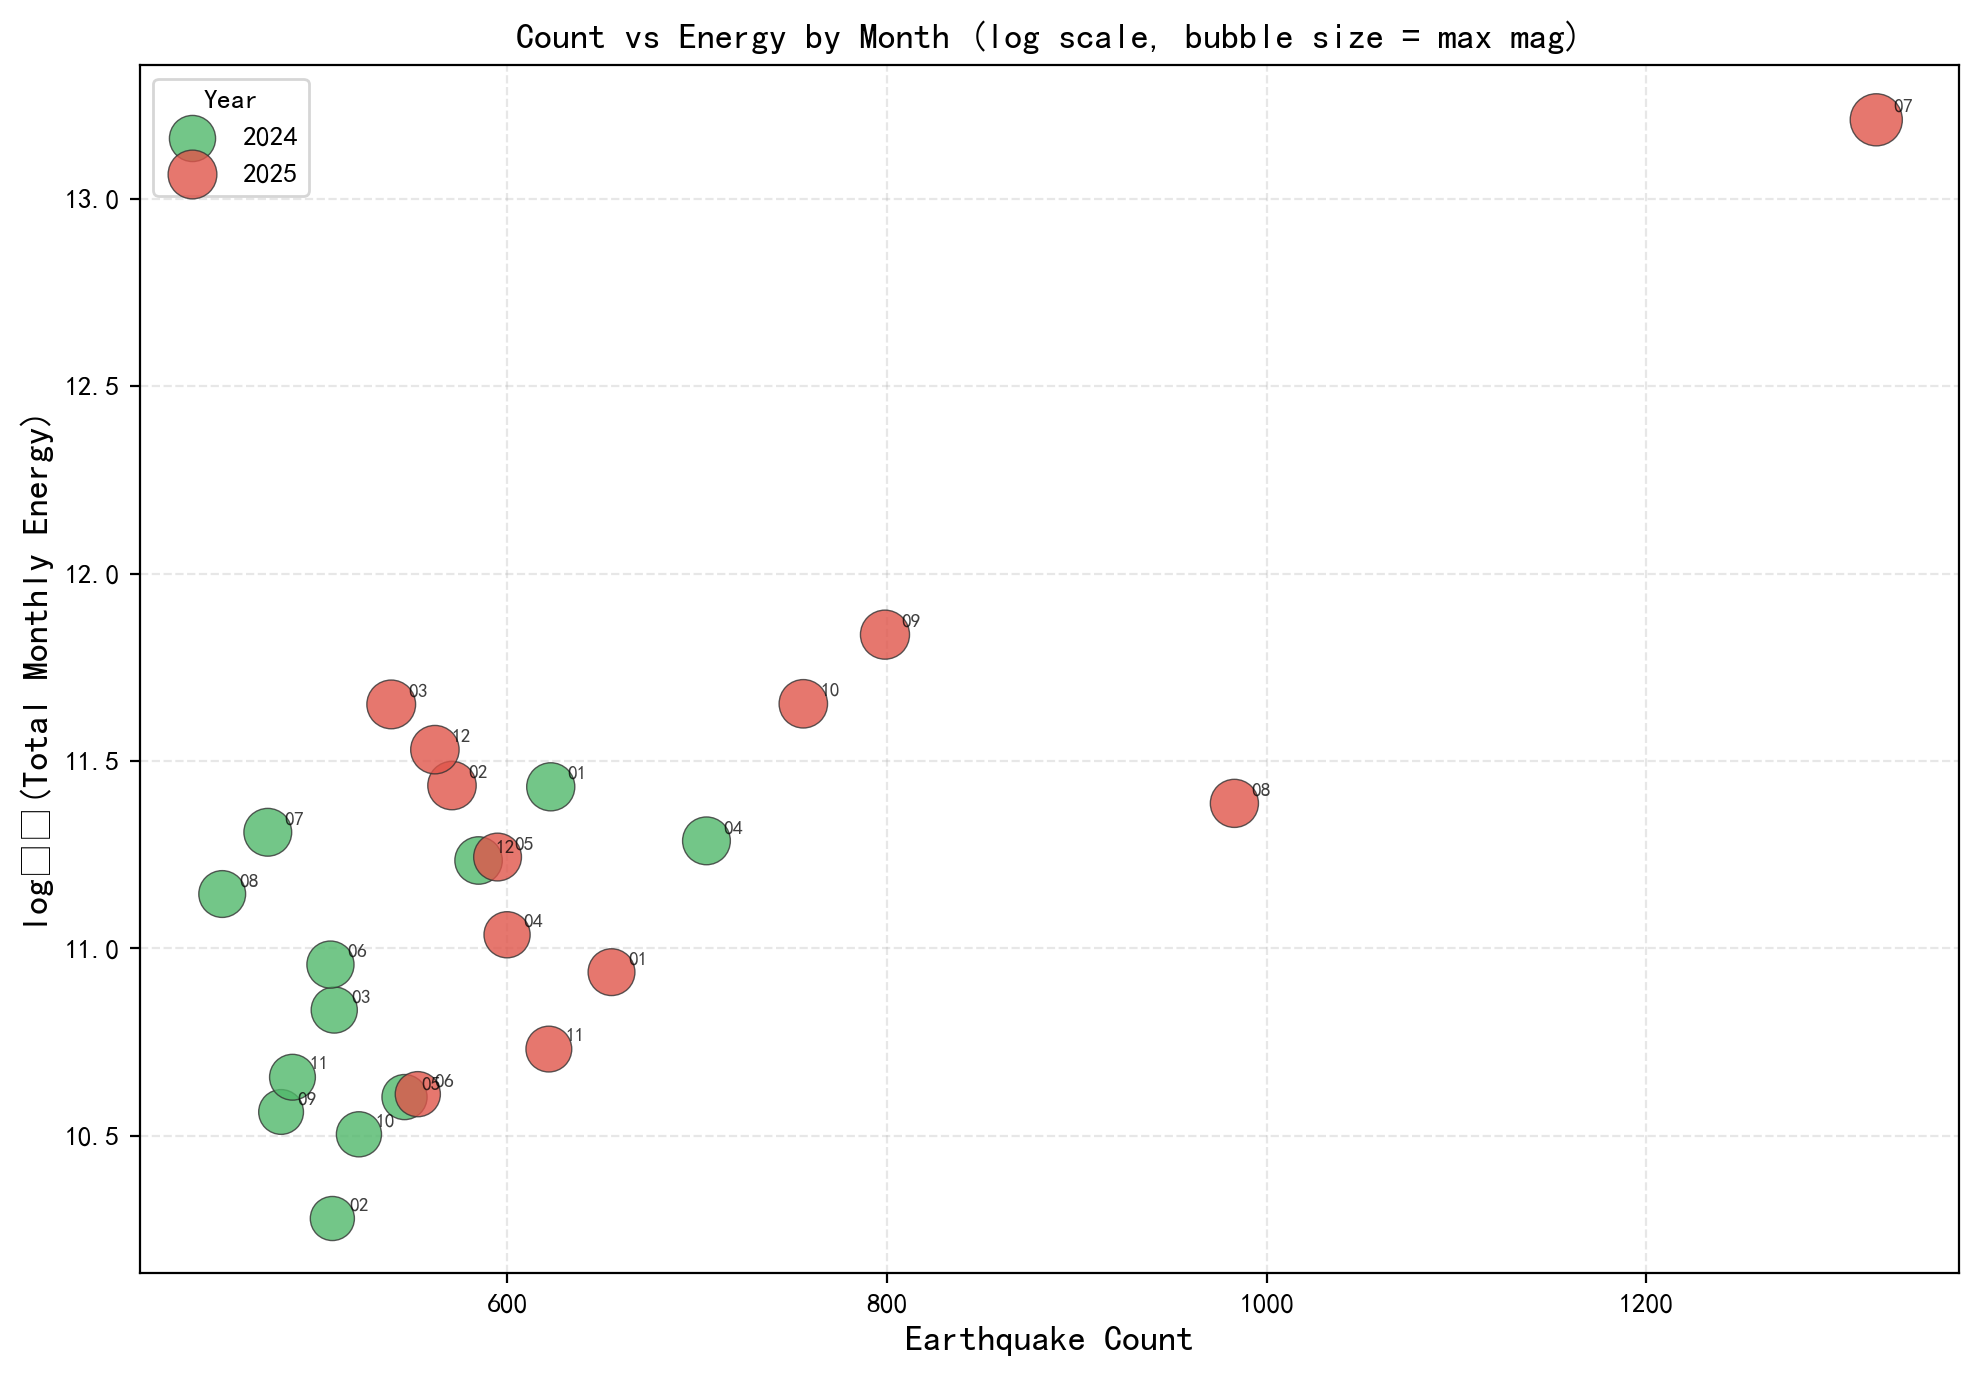
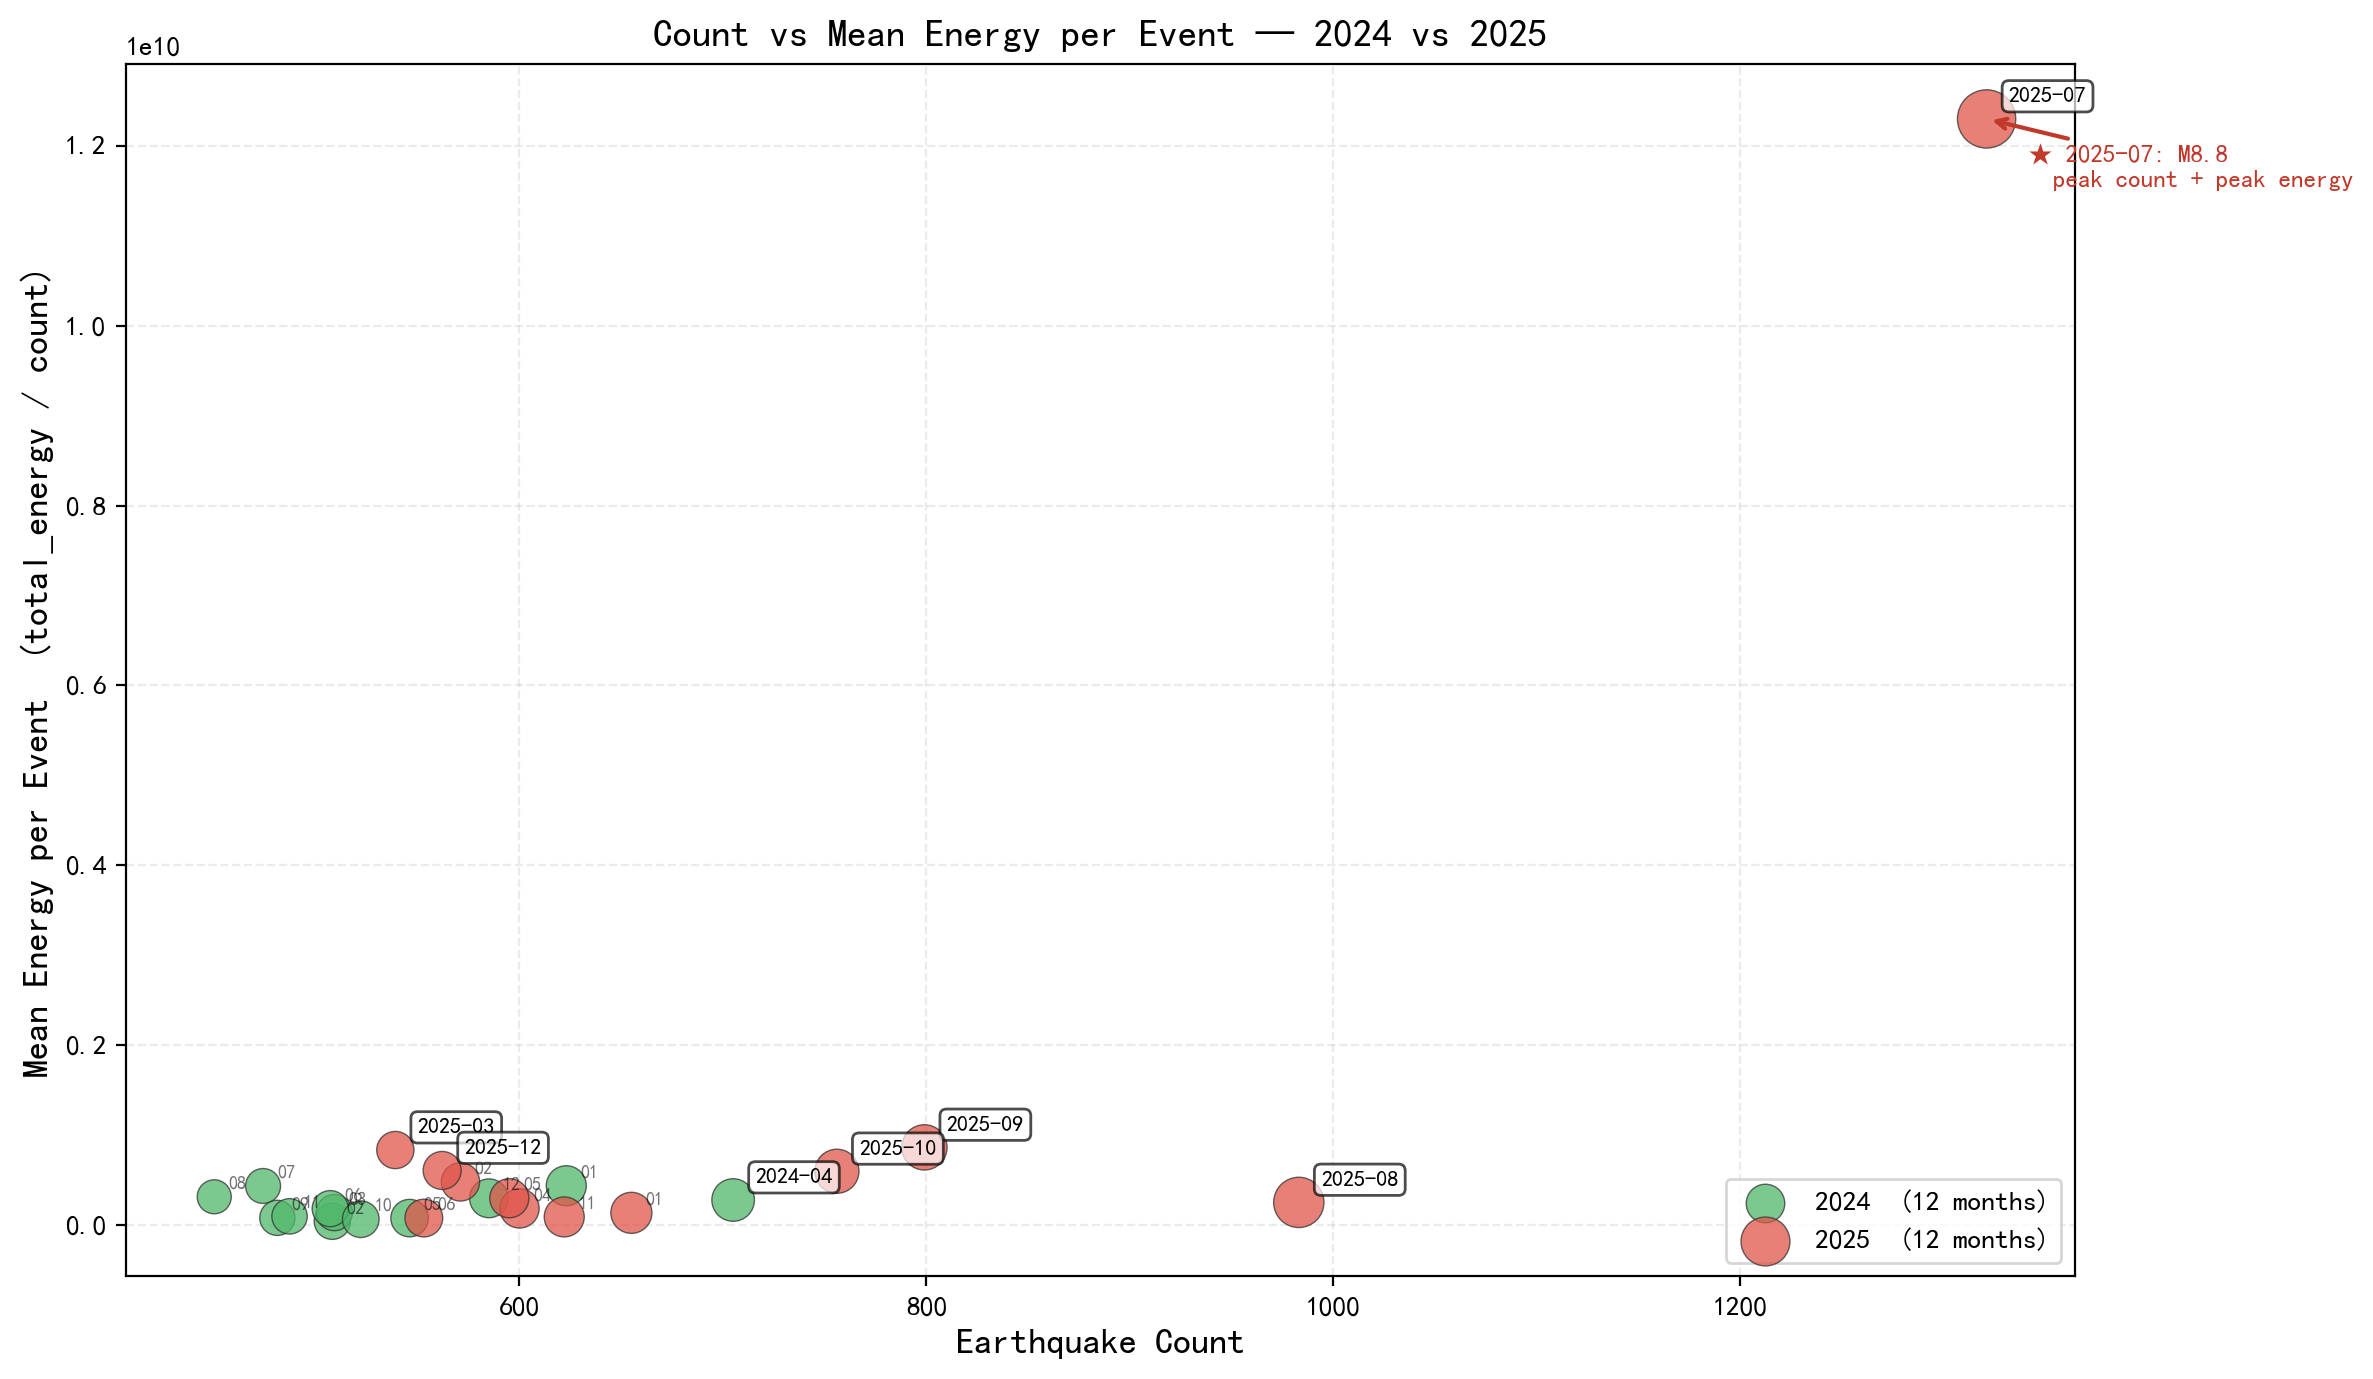
fix: task4 scatter 改用 mean_energy_per_event 纵轴，点均匀分散
纵轴从 total_energy 换成 total_energy/count，24个月点均匀分布。
高值月份加粗标签，2025-07 红色箭头标注 M8.8。
气泡大小=count，按年份绿/红区分。

diff --git a/task4/task4_energy_analysis.py b/task4/task4_energy_analysis.py
@@ -199,34 +199,60 @@ def main():
     plt.close()
     print(f"\n  -> Saved: task4_monthly_energy.png")
 
-    # ── Scatter: count vs energy (log scale to show all months) ──
-    fig, ax = plt.subplots(figsize=(10, 7))
-
-    # Use log10(total_energy) so the scatter is readable despite the M8.8 outlier
-    monthly_df["log_energy"] = np.log10(monthly_df["total_energy"])
-    # Color by year
+    # ── Scatter: count vs mean energy per event ──
+    # Using mean_energy_per_event instead of total_energy avoids the
+    # M8.8 outlier dominating the y-axis and spreads all 24 months out.
+    monthly_df["mean_energy_per_event"] = monthly_df["total_energy"] / monthly_df["count"]
     monthly_df["plot_year"] = [m[:4] for m in months]
+
+    fig, ax = plt.subplots(figsize=(12, 7))
+
     year_colors = {"2024": "#50B86A", "2025": "#E0554A"}
 
     for yr, color in year_colors.items():
         subset = monthly_df[monthly_df["plot_year"] == yr]
-        ax.scatter(subset["count"], subset["log_energy"],
-                   c=color, s=subset["max_mag"] * 40, alpha=0.8,
-                   edgecolors="#333333", linewidth=0.5, label=yr,
-                   zorder=3)
+        ax.scatter(
+            subset["count"], subset["mean_energy_per_event"],
+            c=color, s=subset["count"] / 3, alpha=0.75,
+            edgecolors="#333333", linewidth=0.5,
+            label=f"{yr}  ({len(subset)} months)",
+            zorder=3,
+        )
 
+    # Smart labels: only label notable months to avoid clutter
+    outlier_threshold = monthly_df["mean_energy_per_event"].quantile(0.85)
     for i, m in enumerate(months):
         row = monthly_df.iloc[i]
-        ax.annotate(m.split("-")[1] if len(m.split("-")) > 1 else m,
-                    (row["count"], row["log_energy"]),
-                    textcoords="offset points", xytext=(6, 3),
-                    fontsize=7, alpha=0.75)
+        label = m  # full "2024-01" format
+        is_notable = (
+            row["mean_energy_per_event"] >= outlier_threshold
+            or row["count"] >= monthly_df["count"].quantile(0.80)
+        )
+        if is_notable:
+            ax.annotate(label,
+                        (row["count"], row["mean_energy_per_event"]),
+                        textcoords="offset points", xytext=(8, 6),
+                        fontsize=8, fontweight="bold",
+                        bbox=dict(boxstyle="round,pad=0.3", facecolor="white", alpha=0.7))
+        else:
+            ax.annotate(label.split("-")[1],
+                        (row["count"], row["mean_energy_per_event"]),
+                        textcoords="offset points", xytext=(5, 3),
+                        fontsize=6.5, alpha=0.55)
+
+    # Highlight 2025-07 (the peak on both axes)
+    peak = monthly_df.loc["2025-07"]
+    ax.annotate("★ 2025-07: M8.8\n  peak count + peak energy",
+                (peak["count"], peak["mean_energy_per_event"]),
+                textcoords="offset points", xytext=(15, -25),
+                fontsize=9, color="#C0392B", fontweight="bold",
+                arrowprops=dict(arrowstyle="->", color="#C0392B", lw=1.5))
 
     ax.set_xlabel("Earthquake Count", fontsize=13)
-    ax.set_ylabel("log₁₀(Total Monthly Energy)", fontsize=13)
-    ax.set_title("Count vs Energy by Month (log scale, bubble size = max mag)", fontsize=13, fontweight="bold")
-    ax.legend(title="Year", fontsize=10)
-    ax.grid(alpha=0.3, linestyle="--")
+    ax.set_ylabel("Mean Energy per Event  (total_energy / count)", fontsize=13)
+    ax.set_title("Count vs Mean Energy per Event — 2024 vs 2025", fontsize=14, fontweight="bold")
+    ax.legend(fontsize=10, loc="lower right")
+    ax.grid(alpha=0.25, linestyle="--")
 
     plt.tight_layout()
     fig.savefig(OUTPUT_DIR / "task4_count_vs_energy.png", dpi=200, bbox_inches="tight")
